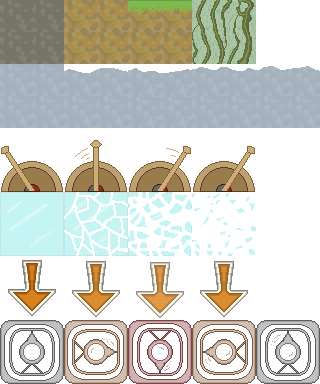
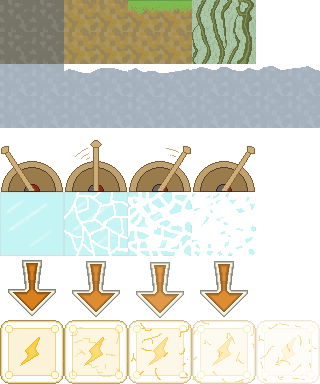
Effect Class 생성, Tiles_Spark 구현중

Changed region(s): [[0.0, 0.8125, 1.0, 1.0]]

diff --git a/Project-FW/Effect.cpp b/Project-FW/Effect.cpp
@@ -1,0 +1,114 @@
+#include "Effect.h"
+#include "Sprite.h"
+#include "LoadManager.h"
+
+#include "D3dDevice.h"
+
+CEffect::CEffect() : m_ImgSize(0, 0), m_ColSize(0, 0),
+					 m_nNowFrame(0),
+					 m_nEffectFrame(0),
+					 m_Effect_Index(0, 0),
+					 m_fAnimationTime(0.0f),
+					 m_State(EFFECT), m_prevState(EFFECT)
+{
+}
+CEffect::~CEffect()
+{
+}
+
+void CEffect::Update()
+{
+	Animation() ;
+}
+
+void CEffect::LoadDat(char *filepath)
+{
+	g_LoadManager->OpenDat(filepath) ;
+
+	char item[100] ;
+	char image_path[100] ;
+
+	while(g_LoadManager->GetItem(item))
+	{
+		int len = strlen(item) ;
+
+		if(len==5 && strcmp(item, "IMAGE")==0)
+		{
+			g_LoadManager->GetString(image_path) ;
+		}
+		else if(len==4 && strcmp(item, "SIZE")==0)
+		{
+			g_LoadManager->GetValue(m_ImgSize.x) ;
+			g_LoadManager->GetValue(m_ImgSize.y) ;
+		}
+		else if(len==12 && strcmp(item, "EFFECT_FRAME")==0)
+		{
+			g_LoadManager->GetValue(m_nEffectFrame) ;
+		}
+		else if(len==12 && strcmp(item, "EFFECT_INDEX")==0)
+		{
+			g_LoadManager->GetValue(m_Effect_Index.x) ;
+			g_LoadManager->GetValue(m_Effect_Index.y) ;
+		}
+	}
+
+	g_LoadManager->CloseDat() ;
+
+	m_pSprite = new CSprite ;
+	m_pSprite->Init((float)m_ImgSize.x, (float)m_ImgSize.y, image_path) ;
+	m_pSprite->SetTextureUV((float)(m_Effect_Index.x * m_ImgSize.x), (float)(m_Effect_Index.y * m_ImgSize.y),
+							(float)((m_Effect_Index.x+1) * m_ImgSize.x), (float)((m_Effect_Index.y+1) * m_ImgSize.y)) ;
+
+	SetBoundingBox() ;
+}
+
+void CEffect::SetBoundingBox()
+{
+	m_BoundingBox.left = 0 ;
+	m_BoundingBox.top = 0 ;
+	m_BoundingBox.right = 0 ;
+	m_BoundingBox.bottom = 0 ;
+}
+
+void CEffect::Animation()
+{
+	// Animation Frame, Index
+	int MaxFrame ;
+	Position Index ;
+
+	switch(m_State)
+	{
+	case EFFECT :
+		MaxFrame = m_nEffectFrame ;
+		Index = m_Effect_Index ;
+		break ;
+	}
+
+	// Animation
+	m_fAnimationTime += g_D3dDevice->GetTime() ;
+
+	if(m_fAnimationTime>=0.2f || (m_State!=m_prevState))
+	{
+		if(m_State!=m_prevState)
+		{
+			m_nNowFrame = 0 ;
+			m_fAnimationTime = 0.0f ;
+		}
+
+		int Frame = (int)(m_fAnimationTime / 0.2f) ;
+		m_fAnimationTime -= Frame * 0.2f ;
+		Frame %= MaxFrame ;
+		m_nNowFrame += Frame ;
+		m_nNowFrame %= MaxFrame ;
+
+		float left, top, right, bottom ;
+		left = (float)((Index.x + m_nNowFrame) * m_ImgSize.x) ;
+		top = (float)((Index.y) * m_ImgSize.y) ;
+		right = (float)((Index.x + m_nNowFrame+1) * m_ImgSize.x) ;
+		bottom = (float)((Index.y+1) * m_ImgSize.y) ;
+
+		m_pSprite->SetTextureUV(left, top, right, bottom) ;
+	}
+
+	m_prevState = m_State ;
+}

diff --git a/Project-FW/Tiles_Spark.cpp b/Project-FW/Tiles_Spark.cpp
@@ -1,0 +1,40 @@
+#include "Tiles_Spark.h"
+#include "Effect_SparkArea.h"
+#include "Sprite.h"
+
+CTiles_Spark::CTiles_Spark() : m_pESparkArea(0)
+{
+}
+CTiles_Spark::~CTiles_Spark()
+{
+	if(m_pESparkArea!=0)
+		delete m_pESparkArea ;
+}
+
+void CTiles_Spark::Init()
+{
+	LoadDat("Resource/Data/Tiles/Spark.dat") ;
+
+	m_pESparkArea = new CEffect_SparkArea ;
+	m_pESparkArea->Init() ;
+}
+
+void CTiles_Spark::Update()
+{
+	Animation() ;
+
+	m_pESparkArea->Update() ;
+}
+
+void CTiles_Spark::Effect2()
+{
+}
+
+void CTiles_Spark::Render()
+{
+	m_pSprite->SetPosition(m_fX, m_fY) ;
+	m_pSprite->Render() ;
+
+	m_pESparkArea->SetPosition(m_fX, m_fY) ;
+	m_pESparkArea->Render() ;
+}

diff --git a/Project-FW/Effect.h b/Project-FW/Effect.h
@@ -1,0 +1,30 @@
+#pragma once
+
+#include "Objects.h"
+
+class CEffect : public CObjects
+{
+protected :
+	Size m_ImgSize, m_ColSize ;
+	int m_nNowFrame ;
+	int m_nEffectFrame ;
+	Position m_Effect_Index ;
+
+	float m_fAnimationTime ;
+
+	enum State { EFFECT=0 } ;
+	State m_State, m_prevState ;
+
+public :
+	CEffect() ;
+	virtual ~CEffect() ;
+
+	virtual void Init() = 0 ;
+	
+	virtual void Update() ;
+protected :
+	void LoadDat(char *filepath) ;
+	void SetBoundingBox() ;
+	
+	virtual void Animation() ;
+} ;

diff --git a/Project-FW/MapTiles.cpp b/Project-FW/MapTiles.cpp
@@ -14,6 +14,7 @@
 #include "Tiles_Glass.h"
 #include "Tiles_Arrival.h"
 #include "Tiles_MontriloDoor.h"
+#include "Tiles_Spark.h"
 
 #include <string>
 //
@@ -101,6 +102,10 @@ void CMapTiles::LoadMap(int num)
 
 			case 12 :
 				pTiles = new CTiles_MontriloDoor ;
+				break ;
+
+			case 13 :
+				pTiles = new CTiles_Spark ;
 				break ;
 			}
 

diff --git a/Project-FW/Tiles_Spark.h b/Project-FW/Tiles_Spark.h
@@ -1,0 +1,24 @@
+#pragma once
+
+#include "Tiles.h"
+
+class CEffect_SparkArea ;
+
+class CTiles_Spark : public CTiles
+{
+private :
+	CEffect_SparkArea *m_pESparkArea ;
+	Size m_AreaImgSize ;
+	int m_nTileFrame ;
+
+public :
+	CTiles_Spark() ;
+	~CTiles_Spark() ;
+
+	void Init() ;
+
+	void Update() ;
+	void Effect2() ;
+
+	void Render() ;
+} ;

diff --git a/Project-FW/Effect_SparkArea.cpp b/Project-FW/Effect_SparkArea.cpp
@@ -1,0 +1,13 @@
+#include "Effect_SparkArea.h"
+
+CEffect_SparkArea::CEffect_SparkArea()
+{
+}
+CEffect_SparkArea::~CEffect_SparkArea()
+{
+}
+
+void CEffect_SparkArea::Init()
+{
+	LoadDat("Resource/Data/Effect/Spark_ability.dat") ;
+}

diff --git a/Project-FW/Effect_SparkArea.h b/Project-FW/Effect_SparkArea.h
@@ -1,0 +1,12 @@
+#pragma once
+
+#include "Effect.h"
+
+class CEffect_SparkArea : public CEffect
+{
+public :
+	CEffect_SparkArea() ;
+	~CEffect_SparkArea() ;
+
+	void Init() ;
+} ;
